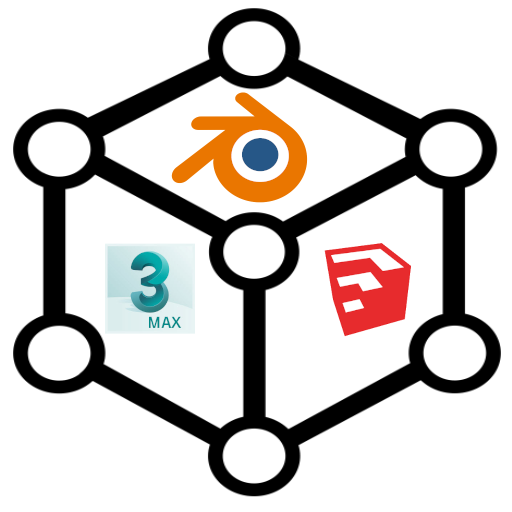
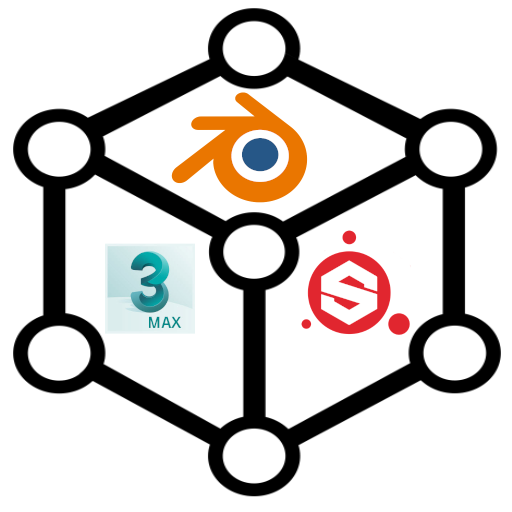
Added pestilence and reworked many things

Changed region(s): [[0.5938, 0.4375, 0.8125, 0.6562]]

diff --git a/pestilence.html b/pestilence.html
@@ -1,0 +1,130 @@
+<!DOCTYPE HTML>
+<!--
+	Miniport by HTML5 UP
+	html5up.net | @ajlkn
+	Free for personal and commercial use under the CCA 3.0 license (html5up.net/license)
+-->
+<html>
+	<head>
+		<title>Pestilence</title>
+		<meta charset="utf-8" />
+		<meta name="viewport" content="width=device-width, initial-scale=1, user-scalable=no" />
+		<link rel="stylesheet" href="assets/css/cssBD.css" />
+	</head>
+	<body class="is-preload">
+		<nav id="nav">
+			<ul class="container">
+				<li><a href="index.html">Main page</a></li>
+				<li><h4><b>Pestilence</b></h4></li>
+				<li><a href="blockdasher.html">Block Dasher</a></li>
+				<li><a href="plantuki.html">Plantuki</a></li>
+				<li><a href="ac.html">AC: Al-Andalus</a></li>
+			</ul>
+		</nav>
+
+		<!-- Home -->
+			<article id="top" class="wrapper style1">
+				<div class="container">
+					<div>
+						<div class="col-4 col-5-large col-12-medium">
+							<span class="image fit"><img src="images/Pestilence/TituloNegro.png" alt="" /></span>
+						</div>
+						<div class="col-8 col-7-large col-12-medium">
+							
+							<h1></h1>
+						
+						</div>
+					</div>
+				</div>
+			</article>
+
+		<!-- Work -->
+			<article id="work" class="wrapper style2">
+				<div class="container">
+					<header>
+						<h2>What is Pestilence?</h2>
+						
+					</header>
+					<p><strong>Pestilence</strong> is a first-person stealth game in which you play as the Lord of the Pestilence, a betrayed God who seeks revenge against his brothers. To accomplish this, you will need to kill your brothers' Judges, the ruling caste of the city of Trumana. You will traverse the town's shadows as a malevolent force, using your uncanny ability to possess and sow chaos between its people.<br>
+						<br>This is my M.A. project, I pitched the idea in February and then we started development. My team and I collaboratively designed a first person stealth game from scratch and after a month of pre-production, we started prototyping in <strong>Unreal Engine 5</strong>. For most of the project I have been a <strong>Level Designer</strong>, while also using my knowledge in programming to add scripts to the world and managing the level streaming of the game.
+						<br> Also, at the ending months of the project, I undertook the role of <strong>Producer</strong>, managing an 18 people development team using Scrum methodology. <br>
+				<br><a href="https://store.steampowered.com/app/2639350/Pestilence/">Steam page</a> <br> <a href="https://twitter.com/Pestilence_Game">Twitter page</a></p>
+			
+				</div>
+			</article>
+
+		<!-- Portfolio -->
+			<article id="portfolio" class="wrapper style3">
+				<div class="container">
+					<header>
+						<h2>Screenshots and GIFs.</h2>
+						
+					</header>
+					<div class="row">
+						<article>
+							<a  class="image fit "><img src="images/Pestilence/Scrpt.gif" alt="" /></a>
+						</article>
+							<article>
+								<a  class="image fit"><img src="images/Pestilence/Block1_2.png" alt="" /></a>
+								<a  class="image fit"><img src="images/Pestilence/Block1.png" alt="" /></a>
+							</article>
+							<article>
+								<a  class="image fit"><img src="images/Pestilence/BP1.png" alt="" /></a>
+							</article>
+							<article>
+								<a  class="image fit"><img src="images/Pestilence/BP2.png" alt="" /></a>
+							</article>
+							<article>
+								<a  class="image fit "><img src="images/Pestilence/LvlStr.gif" alt="" /></a>
+							</article>
+							<article>
+								<a  class="image fit "><img src="images/Pestilence/LvlStr2.png" alt="" /></a>
+							</article>
+							<article>
+								<a  class="image fit"><img src="images/Pestilence/Cap1.png" alt="" /></a>
+							</article>
+							<article>
+								<a  class="image fit"><img src="images/Pestilence/Cap2.png" alt="" /></a>
+							</article>
+							<article>
+								<a  class="image fit"><img src="images/Pestilence/Cap3.png" alt="" /></a>
+							</article>
+					</div>
+				</div>
+			</article>
+
+		<!-- Contact -->
+			<article id="contact" class="wrapper style4">
+				<div class="container medium">
+					<header>
+						<h2>Get in touch with me.</h2>
+						<div class="col-12">
+							
+							<ul class="social">
+								<li><a href="https://twitter.com/albertosr173" class="icon brands fa-twitter"><span class="label">Twitter</span></a></li>
+								<li><a href="https://www.linkedin.com/in/alberto-sánchez-romero-686606229/" class="icon brands fa-linkedin-in"><span class="label">LinkedIn</span></a></li>
+								<li><a href="https://github.com/albertosr173" class="icon brands fa-github"><span class="label">Github</span></a></li>
+								<li><a href="https://www.instagram.com/albertosr173/?hl=es" class="icon brands fa-instagram"><span class ="label">Instagram</span></a></li>
+							</ul>
+							<p style="font-size:160%;">173alberto@gmail.com</p>
+							<hr />
+						</div>
+					</div>
+					<footer>
+						<ul id="copyright">
+							<li>Design: <a href="http://html5up.net">HTML5 UP</a></li>
+						</ul>
+					</footer>
+				</div>
+			</article>
+
+		<!-- Scripts -->
+			<script src="assets/js/jquery.min.js"></script>
+			<script src="assets/js/jquery.scrolly.min.js"></script>
+			<script src="assets/js/browser.min.js"></script>
+			<script src="assets/js/breakpoints.min.js"></script>
+			<script src="assets/js/util.js"></script>
+			<script src="assets/js/main.js"></script>
+
+	</body>
+</html>

diff --git a/index.html b/index.html
@@ -28,13 +28,13 @@
 				<div class="container">
 					<div class="row">
 						<div class="col-4 col-5-large col-12-medium">
-							<span class="image fit"><img src="images/pfp.jpg" alt="" /></span>
+							<span class="image fit"><img src="images/pfp.jpeg" alt="" /></span>
 						</div>
 						<div class="col-8 col-7-large col-12-medium">
 							<header>
-								<h1>Hi. I'm <strong>Alberto Sánchez</strong>.</h1>
+								<h1>Hi, I'm <strong>Alberto Sánchez</strong>.</h1>
 							</header>
-							<p>I'm a videogame developer currently studying at <em>Rey Juan Carlos University, Madrid</em>.</p>
+							<p>I am a <strong>Game and Level Designer</strong> deeply passionate about the gaming industry, both as a player and as a developer. I am skilled at <strong>public speaking and pitching</strong>, and I thrive in collaborative group settings, effectively <strong>communicating with colleagues from various disciplines</strong>.</p>
 							
 						</div>
 					</div>
@@ -53,7 +53,7 @@
 							<section class="box style1">
 								<span class="image fit"><img src="images/laptop.png" alt="" /></span>
 								<h3>Programming</h3>
-								<p>I know how to code in C#, C++, Java and Python.<br>But I learn new programming languages fast.</p>
+								<p>I know how to code in C#, C++, Java and Python.<br>And I learn new programming languages fast.</p>
 							</section>
 						</div>
 						<div class="col-3 col-6-medium col-12-small">
@@ -67,14 +67,14 @@
 							<section class="box style1">
 								<span class="image fit"><img src="images/3d-modeling.png" alt="" /></span>
 								<h3>3D Art</h3>
-								<p>Understanding in the use of 3D Art software such as Blender, 3Ds Max and Sketch Up. As well as knowledge in rigging and animation.</p>
+								<p>Understanding in the use of 3D Art software such as Blender, 3Ds Max and Substance Painter. As well as knowledge in rigging and animation.</p>
 							</section>
 						</div>
 						<div class="col-3 col-6-medium col-12-small">
 							<section class="box style1">
 								<span class="image fit"><img src="images/game-folder.png" alt="" /></span>
 								<h3>Game and Level Design</h3>
-								<p>I know how to build levels and design mechanics to be engaging to the player. In the future, I would like to focus further on this area of game development.</p>
+								<p>I know how to build levels in both Unreal Engine and Unity, as well as design engaging mechanics for the player. Mixed with my technical knowledge, I can add scripts and logic to the game world</p>
 							</section>
 						</div>
 					</div>
@@ -90,6 +90,13 @@
 						
 					</header>
 					<div class="row">
+						<div class="col-4 col-6-medium col-12-small">
+							<article class="box style2">
+								<a  class="image featured" href="pestilence.html"><img src="images/PestilenceMain.png" alt="" /></a>
+								<h3><a href="pestilence.html">Pestilence</a></h3>
+								<p>Game Designer, Level Designer and Producer <br> <a href="https://store.steampowered.com/app/2639350/Pestilence/">Try it now</a></p>
+							</article>
+						</div>
 						<div class="col-4 col-6-medium col-12-small">
 							<article class="box style2">
 								<a  class="image featured" href="blockdasher.html"><img src="images/BlockDasher.png" alt="" /></a>
@@ -125,7 +132,7 @@
 							
 							<ul class="social">
 								<li><a href="https://twitter.com/albertosr173" class="icon brands fa-twitter"><span class="label">Twitter</span></a></li>
-								<li><a href="https://www.linkedin.com/in/alberto-sánchez-romero-686606229/" class="icon brands fa-linkedin-in"><span class="label">LinkedIn</span></a></li>
+								<li><a href="www.linkedin.com/in/albertosanchezdev" class="icon brands fa-linkedin-in"><span class="label">LinkedIn</span></a></li>
 								<li><a href="https://github.com/albertosr173" class="icon brands fa-github"><span class="label">Github</span></a></li>
 								<li><a href="https://www.instagram.com/albertosr173/?hl=es" class="icon brands fa-instagram"><span class ="label">Instagram</span></a></li>
 							</ul>

diff --git a/assets/css/cssBD.css b/assets/css/cssBD.css
@@ -29,6 +29,7 @@ article, aside, details, figcaption, figure,
 footer, header, hgroup, menu, nav, section {
 	display: block;}
 
+	
 body {
 	line-height: 1;
 }
@@ -195,7 +196,7 @@ input, select, textarea {
 		border: 0;
 		border-top: solid 1px #444;
 		border-top-color: rgba(0, 0, 0, 0.35);
-		box-shadow: 0px 1px 0px 0px rgba(255, 255, 255, 0.1);
+		box-shadow: 0px 1px 0px 0px rgba(255, 255, 255, 0);
 		height: 1px;
 		margin: 3em 0;
 	}
@@ -1637,7 +1638,12 @@ input, select, textarea {
 			width: 100%;
 		}
 
-		
+		.image.fitp {
+			display: block;
+			width: 100%;
+			height: 10px;
+			margin-bottom: 0;
+		}
 
 		.image.featured:hover {
 			display: block;
@@ -1687,7 +1693,7 @@ input, select, textarea {
 		outline: 0;
 		cursor: pointer;
 		border-radius: 8px;
-		text-shadow: -1px -1px 0.5px rgba(0, 0, 0, 0);
+		text-shadow: 0px 0px 0px rgba(0, 0, 0, 0);
 		overflow: hidden;
 		box-shadow: inset 0px 0px 0px 1px rgba(0, 0, 0, 0.5), inset 0px 2px 1px 0px rgba(255, 255, 255, 0.75);
 		background-color: #43B3E0;
@@ -1819,7 +1825,7 @@ input, select, textarea {
 					text-align: center;
 					outline: 0;
 					overflow: hidden;
-					text-shadow: 1px 1px 0px rgba(255, 255, 255, 0.1);
+					text-shadow: 0px 0px 0px rgb(0, 0, 0);
 					width: 68px;
 				}
 
@@ -2005,18 +2011,18 @@ input, select, textarea {
 
 		.wrapper.style2 {
 			background-color: #c9c9c9;
-			text-shadow: 0.5px 0.5px 0px rgb(77, 77, 77);
+			text-shadow: 0px 0px 0px rgb(0, 0, 0);
 		}
 
 		.wrapper.style3 {
 			background-color: #808080;
-			text-shadow: 1px 1px 0px rgb(161, 161, 161);
+			text-shadow: 0px 0px 0px rgb(0, 0, 0);
 		}
 
 		.wrapper.style4 {
 			background-color: #303030;
 			color: #999;
-			text-shadow: -1px -1px 0px #181818;
+			text-shadow: 0px 0px 0px #000000;
 		}
 
 			.wrapper.style4 h1, .wrapper.style4 h2, .wrapper.style4 h3, .wrapper.style4 h4, .wrapper.style4 h5, .wrapper.style4 h6 {
@@ -2117,7 +2123,7 @@ input, select, textarea {
 		#top .image {
 			border-radius: 100%;
 			width: 60em;
-			height: 60em;
+			height: 40em;
 			margin: 0;
 			align-items: center;
 			padding: 0 0 0 10em;

diff --git a/blockdasher.html b/blockdasher.html
@@ -15,6 +15,7 @@
 		<nav id="nav">
 			<ul class="container">
 				<li><a href="index.html">Main page</a></li>
+				<li><a href="pestilence.html">Pestilence</a></li>
 				<li><h4><b>Block Dasher</b></h4></li>
 				<li><a href="plantuki.html">Plantuki</a></li>
 				<li><a href="ac.html">AC: Al-Andalus</a></li>
@@ -30,8 +31,8 @@
 						</div>
 						<div class="col-8 col-7-large col-12-medium">
 							
-								<h1> by <a href="https://slow-heat-index.github.io/#">Slow Heat Index</a></h1>
-							
+							<h1></h1>
+						
 						</div>
 					</div>
 				</div>
@@ -45,7 +46,7 @@
 						
 					</header>
 					<p>Block Dasher is a puzzle game developed for internet browsers that works both on pc and mobile devices.<br>
-						Me and my collegues have plans of expanding it and even releasing it at the Play Store and Steam.<br>
+						This is a university project of wich I am very proud<br>
 					During the development I was the level designer for most of the levels and artist for the desert blocks and props. <br>
 				<a href="https://slow-heat-index.itch.io/block-dasher">Try it now</a> <br> <a href="https://twitter.com/SlowHeatIndex">Twitter page</a></p>
 			
@@ -104,7 +105,7 @@
 							
 							<ul class="social">
 								<li><a href="https://twitter.com/albertosr173" class="icon brands fa-twitter"><span class="label">Twitter</span></a></li>
-								<li><a href="https://www.linkedin.com/in/alberto-sánchez-romero-686606229/" class="icon brands fa-linkedin-in"><span class="label">LinkedIn</span></a></li>
+								<li><a href="www.linkedin.com/in/albertosanchezdev" class="icon brands fa-linkedin-in"><span class="label">LinkedIn</span></a></li>
 								<li><a href="https://github.com/albertosr173" class="icon brands fa-github"><span class="label">Github</span></a></li>
 								<li><a href="https://www.instagram.com/albertosr173/?hl=es" class="icon brands fa-instagram"><span class ="label">Instagram</span></a></li>
 							</ul>

diff --git a/ac.html b/ac.html
@@ -15,6 +15,7 @@
 		<nav id="nav">
 			<ul class="container">
 				<li><a href="index.html">Main page</a></li>
+				<li><a href="pestilence.html">Pestilence</a></li>
 				<li><a href="blockdasher.html">Block Dasher</a></li>
 				<li><a href="plantuki.html">Plantuki</a></li>
 				<li><h4><b>AC: Al-Andalus</b></h4></li>
@@ -64,7 +65,7 @@
 							
 							<ul class="social">
 								<li><a href="https://twitter.com/albertosr173" class="icon brands fa-twitter"><span class="label">Twitter</span></a></li>
-								<li><a href="https://www.linkedin.com/in/alberto-sánchez-romero-686606229/" class="icon brands fa-linkedin-in"><span class="label">LinkedIn</span></a></li>
+								<li><a href="www.linkedin.com/in/albertosanchezdev" class="icon brands fa-linkedin-in"><span class="label">LinkedIn</span></a></li>
 								<li><a href="https://github.com/albertosr173" class="icon brands fa-github"><span class="label">Github</span></a></li>
 								<li><a href="https://www.instagram.com/albertosr173/?hl=es" class="icon brands fa-instagram"><span class ="label">Instagram</span></a></li>
 							</ul>

diff --git a/plantuki.html b/plantuki.html
@@ -15,6 +15,7 @@
 		<nav id="nav">
 			<ul class="container">
 				<li><a href="index.html">Main page</a></li>
+				<li><a href="pestilence.html">Pestilence</a></li>
 				<li><a href="blockdasher.html">Block Dasher</a></li>
 				<li><h4><b>Plantuki</b></h4></li>
 				<li><a href="ac.html">AC: Al-Andalus</a></li>
@@ -119,7 +120,7 @@
 							
 							<ul class="social">
 								<li><a href="https://twitter.com/albertosr173" class="icon brands fa-twitter"><span class="label">Twitter</span></a></li>
-								<li><a href="https://www.linkedin.com/in/alberto-sánchez-romero-686606229/" class="icon brands fa-linkedin-in"><span class="label">LinkedIn</span></a></li>
+								<li><a href="www.linkedin.com/in/albertosanchezdev" class="icon brands fa-linkedin-in"><span class="label">LinkedIn</span></a></li>
 								<li><a href="https://github.com/albertosr173" class="icon brands fa-github"><span class="label">Github</span></a></li>
 								<li><a href="https://www.instagram.com/albertosr173/?hl=es" class="icon brands fa-instagram"><span class ="label">Instagram</span></a></li>
 							</ul>

diff --git a/assets/css/main.css b/assets/css/main.css
@@ -2001,12 +2001,12 @@ input, select, textarea {
 
 		.wrapper.style2 {
 			background-color: #c9c9c9;
-			text-shadow: 0.5px 0.5px 0px rgb(77, 77, 77);
+			text-shadow: 0px 0px 0px rgb(0, 0, 0);
 		}
 
 		.wrapper.style3 {
 			background-color: #808080;
-			text-shadow: 1px 1px 0px rgb(161, 161, 161);
+			text-shadow: 0px 0px 0px rgb(0, 0, 0);
 		}
 
 		.wrapper.style4 {
